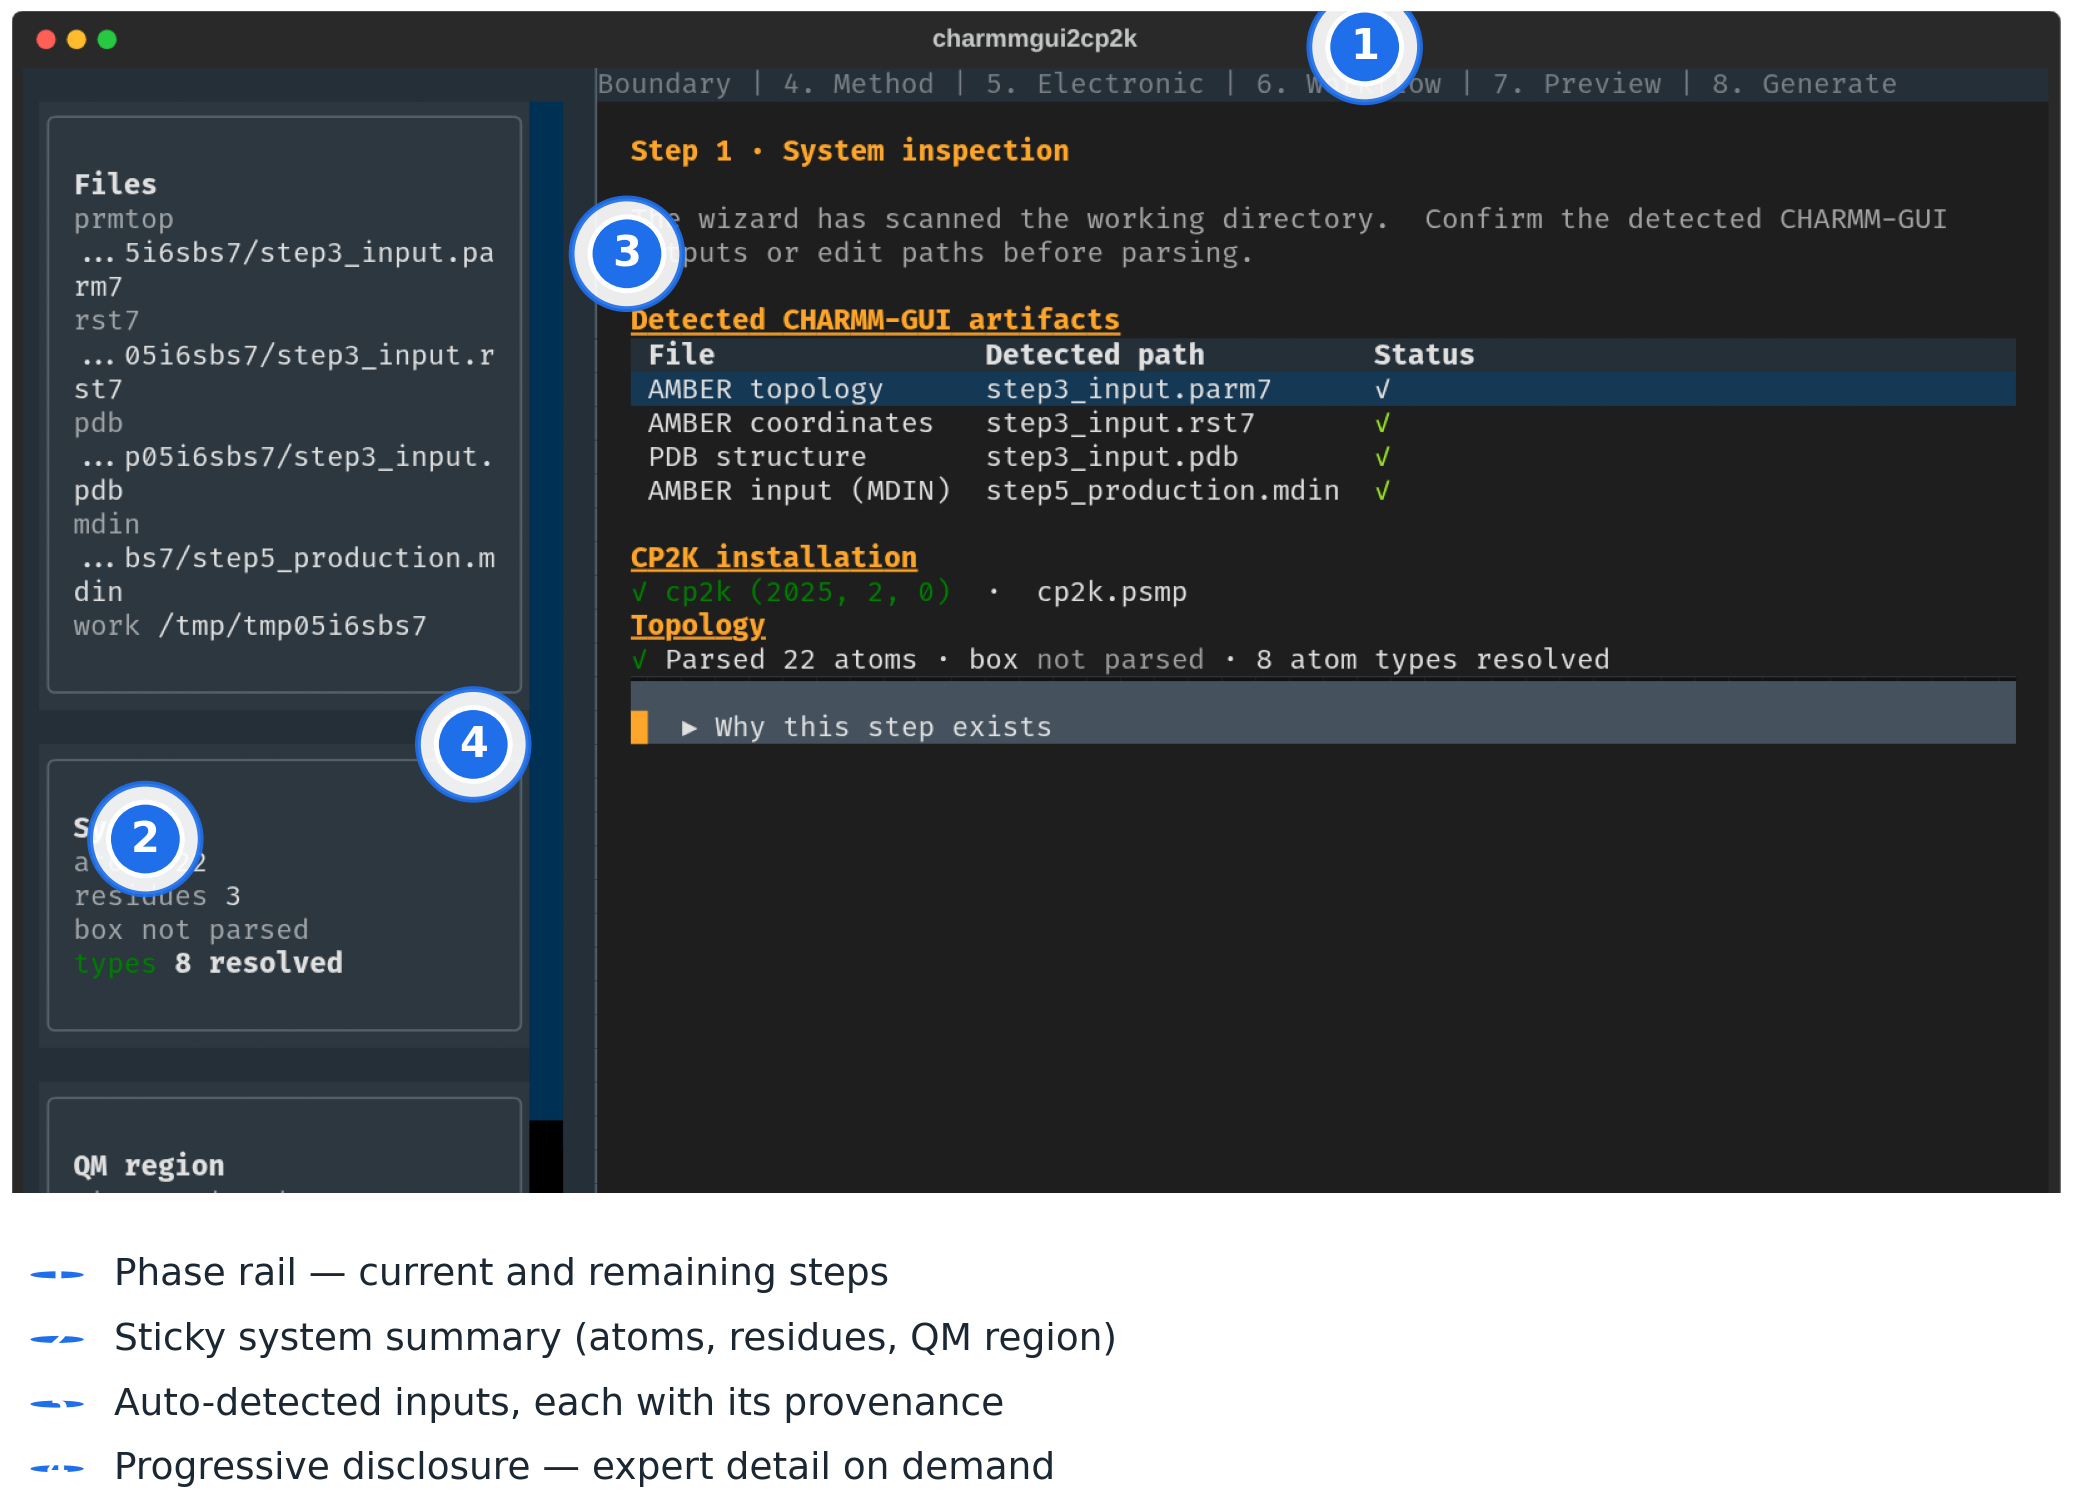
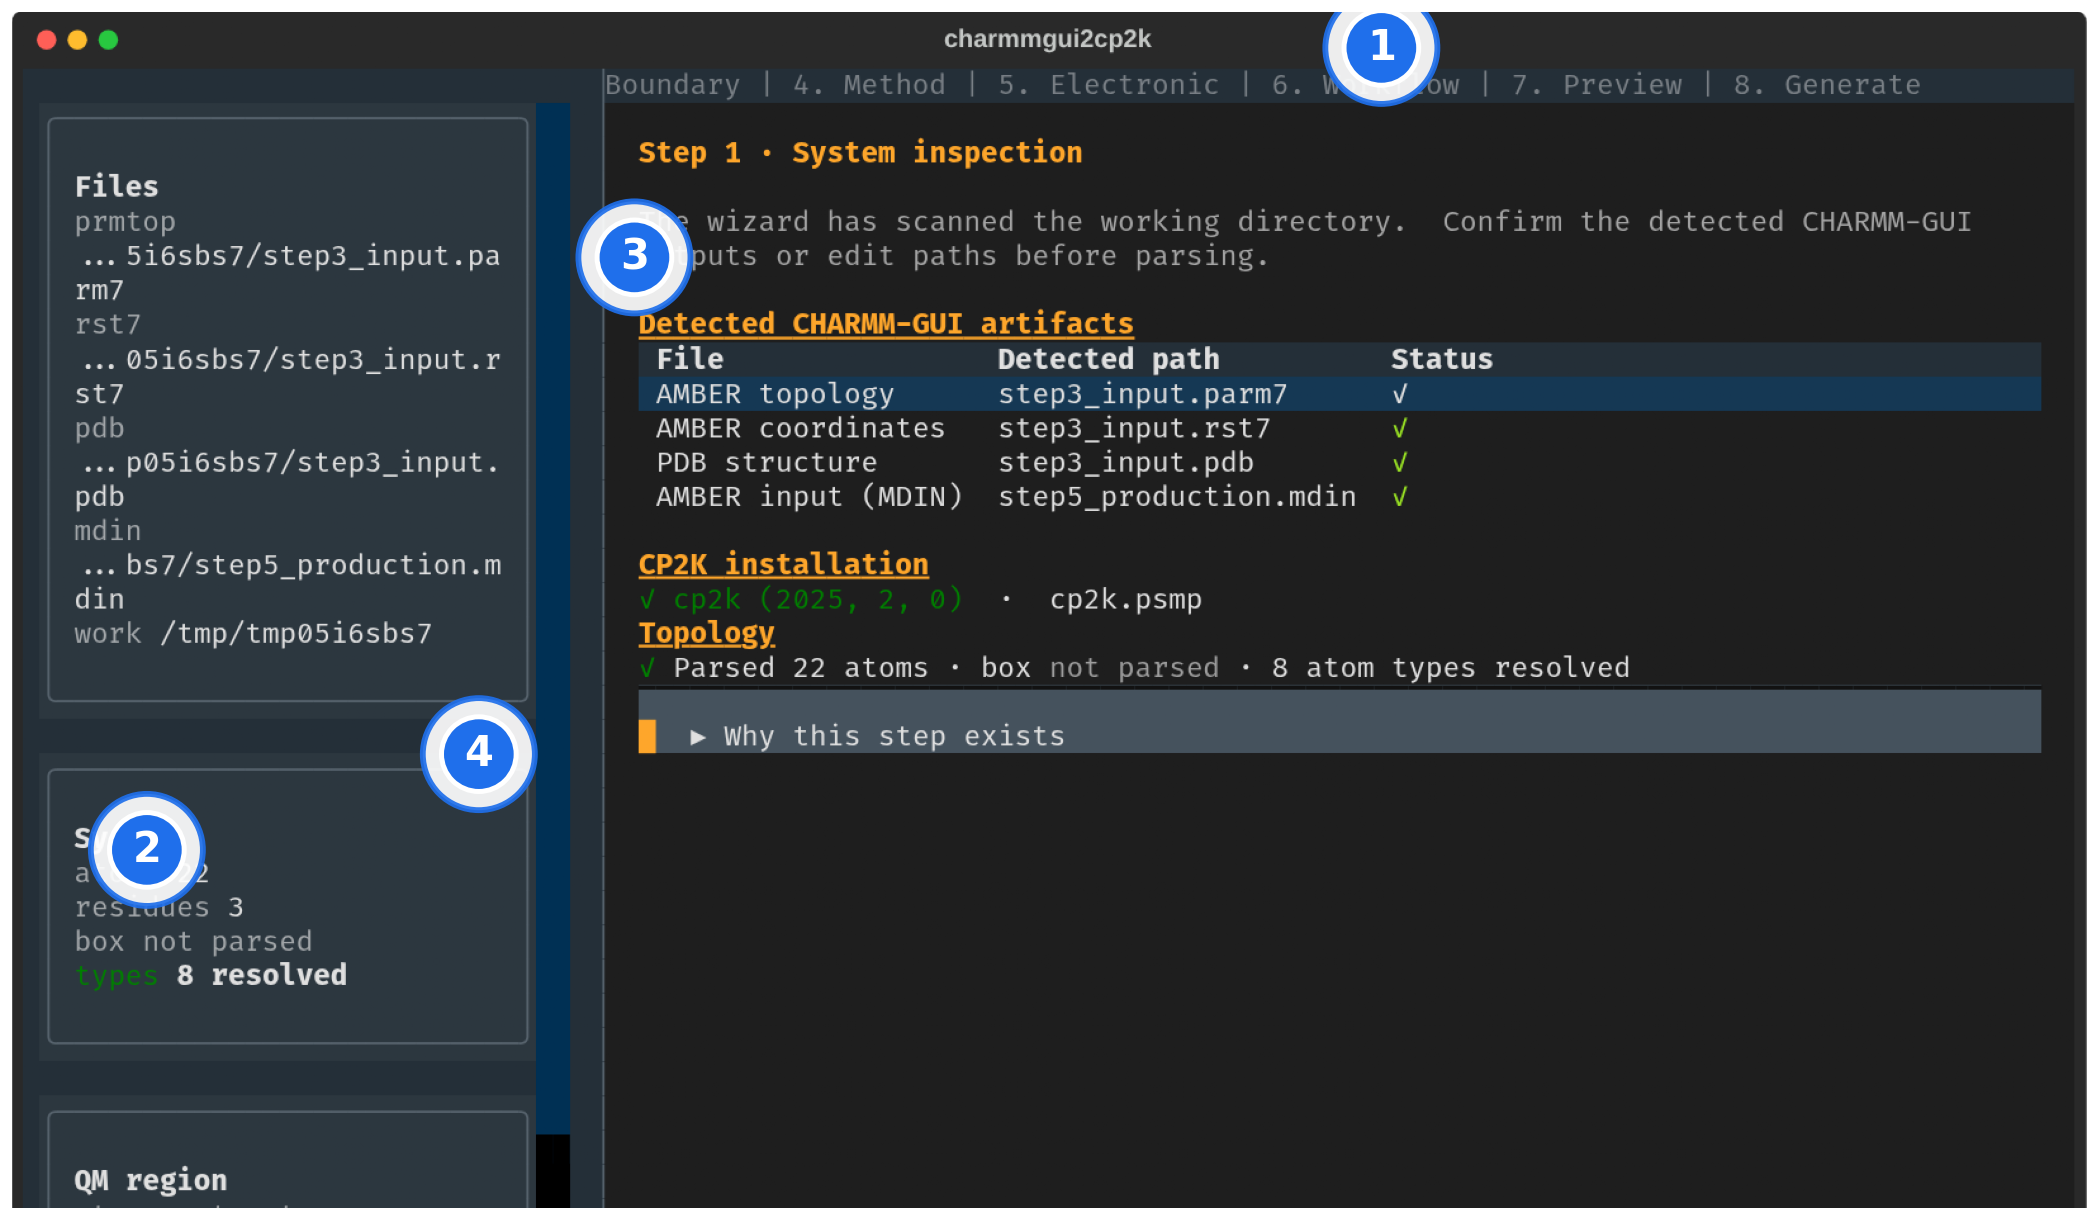
Move the in-figure legend off Figure 2; restore Figure 1 band labels
Correcting the previous target: the redundant in-figure legend was on Figure 2
(the annotated TUI), not Figure 1.

- Figure 2: drop the in-figure legend strip; keep the numbered callout badges on
  the screenshot. The callouts (1-4) are explained in the figure caption instead.
- Figure 1: restore the band labels (INPUTS / FRONTENDS / VALIDATED SCIENTIFIC
  CORE / SAFEGUARDS THROUGHOUT / OUTPUTS), keeping the badge-centering fix.

Re-rendered both figures and rebuilt the manuscript HTML/PDF.

diff --git a/figures/make_tui_figure.py b/figures/make_tui_figure.py
@@ -42,9 +42,10 @@ def main():
     h, w = img.shape[0], img.shape[1]
     asp = h / w
     fig_w = 7.0
-    fig = plt.figure(figsize=(fig_w, fig_w * asp + 0.95))
-    # screenshot axes (top) + legend axes (bottom)
-    ax = fig.add_axes([0.012, 0.20, 0.976, 0.79])
+    # Screenshot + numbered badges only; the callouts are explained in the
+    # figure caption (no in-figure legend strip).
+    fig = plt.figure(figsize=(fig_w, fig_w * asp))
+    ax = fig.add_axes([0.006, 0.006, 0.988, 0.988])
     ax.imshow(img)
     ax.set_xlim(0, w); ax.set_ylim(h, 0)
     ax.axis("off")
@@ -61,18 +62,6 @@ def main():
         ax.add_patch(Circle((cx, cy), r, fc=P["accent"], ec="white", lw=1.2, zorder=6))
         ax.text(cx, cy, num, color="white", fontsize=10, fontweight="bold",
                 ha="center", va="center", zorder=7)
-
-    # legend strip
-    lax = fig.add_axes([0.012, 0.0, 0.976, 0.18]); lax.axis("off")
-    lax.set_xlim(0, 1); lax.set_ylim(0, 1)
-    ys = [0.78, 0.54, 0.30, 0.06]
-    for (_, _, num, label), yy in zip(CALLOUTS, ys):
-        lax.add_patch(Circle((0.022, yy + 0.03), 0.013, transform=lax.transAxes,
-                             fc=P["accent"], ec="none"))
-        lax.text(0.022, yy + 0.03, num, color="white", fontsize=8, fontweight="bold",
-                 ha="center", va="center", transform=lax.transAxes)
-        lax.text(0.05, yy + 0.03, label, color=P["ink"], fontsize=9,
-                 ha="left", va="center", transform=lax.transAxes)
 
     paths = _style.save_all(fig, "fig2_tui")
     plt.close(fig)